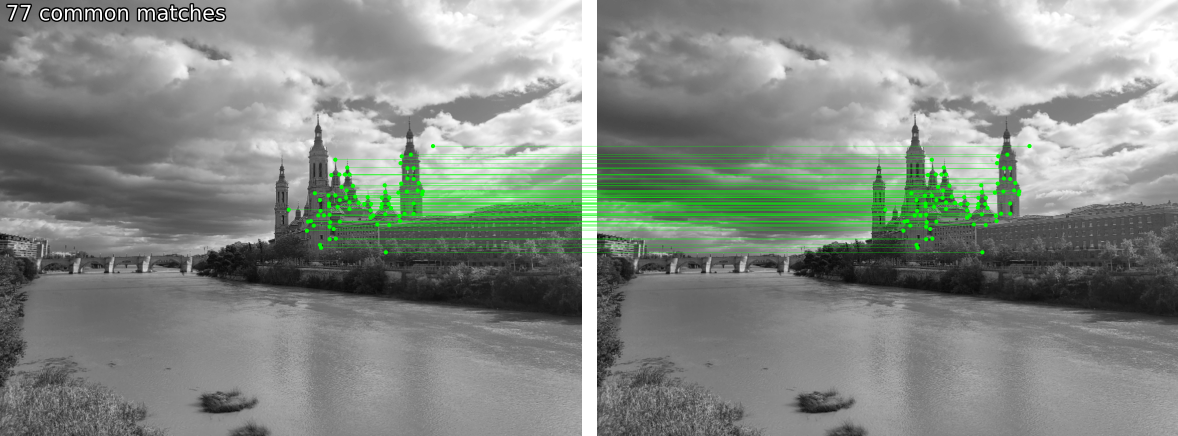
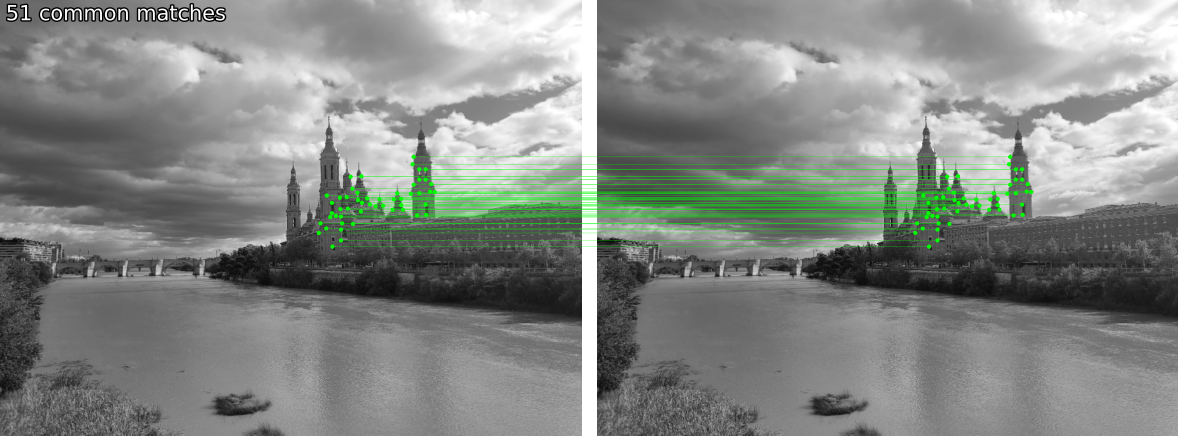
everything works omg

diff --git a/detective/pipeline/matching/matching_stage.py b/detective/pipeline/matching/matching_stage.py
@@ -57,7 +57,7 @@ class MatchingStage(Stage):
         self.matcher = LightGlue(features=fst).eval().cuda()  # load the matcher
 
     def __repr__(self):
-        return f"MatchingStage : (Photos, Target) -> (Photos, Target, points)"
+        return f"MatchingStage : (Photos, Target) -> (images, target, image points, target points) "
 
     def __match(self, input_images : _ImageList, target_image : np.array, context : Pipeline) -> _KeypointMatch:
         """Match images and return list of matches.
@@ -75,12 +75,11 @@ class MatchingStage(Stage):
 
         tensor_imgs = [ numpy_image_to_torch(img).cuda() for img in input_images ]
         target_tensor = numpy_image_to_torch(target_image).cuda()
-        sel = []
+        sel = [ 0 ]
 
         #Get keypoints of target image
         feats_target = self.extractor.extract(target_tensor)
 
-        common_ids : list = None
         match_list = []
         feats_list = []
         
@@ -92,13 +91,13 @@ class MatchingStage(Stage):
             # match the features
         matches01 = self.matcher({'image0': feats_image_0, 'image1': feats_target})
         _, _, matches01 = [rbd(x) for x in [feats_image_0, feats_target, matches01]]  # remove batch dimension
-        matches = matches01['matches']  # indices with shape (K,2)
+        matches_old = matches01['matches'].cpu().numpy()  # indices with shape (K,2)
 
-        n_matches = matches.shape[0]
+        n_matches = matches_old.shape[0]
         Logger.info(f"Found {n_matches} matches.")
 
         # start with matches of the first new image with the target
-        common_ids = matches[:, 0].cpu().numpy()
+        common_ids = matches_old[:, 0]
     
         for i in range(1, len(tensor_imgs)):
 
@@ -116,7 +115,10 @@ class MatchingStage(Stage):
 
             if n_matches >= self.match_thresh:
 
-                tmp_common_ids = list(filter(lambda x : x in common_ids, matches[:, 0].cpu().numpy()))
+                if common_ids is None:
+                    tmp_common_ids = matches[:, 0].cpu().numpy()
+                else:
+                    tmp_common_ids = list(filter(lambda x : x in common_ids, matches[:, 0].cpu().numpy()))
                 
                 if len(tmp_common_ids) >= self.common_thresh:
                     sel.append(i)
@@ -135,15 +137,21 @@ class MatchingStage(Stage):
         for i in range(len(match_list)):
             match_list[i] = np.array(list(filter(lambda x: x[0] in common_ids_set, match_list[i])))
 
-        tensor_imgs_sel = [ tensor_imgs[i] for i in sel ]
-        # translate matches into keypoint pairs
-        kp_target = feats_target['keypoints'].cpu().numpy().squeeze()
-        all_keypoints = [  ]
+        old_match_array = np.array(list(filter(lambda x: x[0] in common_ids_set, matches_old)))
 
+        tensor_imgs_sel = [ tensor_imgs[i] for i in sel ]
+
+        # translate matches into keypoint pairs
+        kp_image_0 = feats_image_0['keypoints'].cpu().numpy().squeeze()
+        kp_image_0 = kp_image_0[common_ids]
+        all_keypoints = [ kp_image_0 ]
         for i, mp in enumerate(match_list):
             kp_i = feats_list[i]['keypoints'].cpu().numpy().squeeze()
             points1 = kp_i[mp[..., 1]]
             all_keypoints.append(points1)
+
+        kp_target = feats_target['keypoints'].cpu().numpy().squeeze()
+        kp_target = kp_target[old_match_array[..., 1]]
 
         # set selection for the future
         self.selection = sel

diff --git a/detective/pipeline/sfm/triangulation.py b/detective/pipeline/sfm/triangulation.py
@@ -1,7 +1,10 @@
+from detective.logger import Logger
 from detective.utils.plot import *
 from detective.utils.spatial import *
 import scipy as sc
 import scipy.optimize as scOptim
+
+import cv2
 
 from itertools import chain
 
@@ -160,9 +163,6 @@ def BA_optimize(points3d, poses, keypoints, K_c):
 
     vec3d = points3d[:3].flatten()
 
-    print(vec3d.shape)
-    for k in keypoints:
-        print(k.shape)
     pose_tup = [ pose_from_T(np.linalg.inv(pose)) for pose in poses ]
     pose_list = []
     for R, t in pose_tup:
@@ -171,11 +171,11 @@ def BA_optimize(points3d, poses, keypoints, K_c):
 
     # first solution [X3D1, X3D2, ..., X3DnPoints,tx, ty, tz, theta_x, theta_y, theta_z]
     Op = np.concatenate([ vec3d ] + pose_list).astype(float)
-    print()
+
     npoints = points3d.shape[1]
     ncams = len(poses)
 
-    print(f"Multiview BA ({ncams} views) for {npoints} points")
+    Logger.info(f"Multiview BA ({ncams} views) for {npoints} points")
 
     # Optimization with L2 norm and Levenberg-Marquardt
     OpOptim = scOptim.least_squares(
@@ -198,8 +198,42 @@ def BA_optimize(points3d, poses, keypoints, K_c):
 
     ax_ba = plot_3dpoints(
         refs=transf, 
-        points=[points3d, p3d_ba.T],
+        points=[points3d.T, p3d_ba.T],
         ref_labels=[ f"C{i}" for i in range(len(poses))],
-        point_labels=["Ground truth", "Initial triangulation", "BA optimized"])
+        point_labels=["Initial triangulation", "BA optimized"])
     
-    return transf, points3d
+    plt.show()
+    
+    return transf, p3d_ba.T
+
+def DLT_eq(point3d, point2d):
+
+    X, Y, Z, W = point3d
+    x, y = point2d
+
+    return np.array([
+        [-X, -Y, -Z, -W,  0,  0,  0,  0, x * X, x * Y, x * Z, x * W],
+        [ 0,  0,  0,  0, -X, -Y, -Z, -W, y * X, y * Y, y * Z, y * W]
+    ])
+
+def DLT_pose(points3d, kp_old):
+
+    # create equations
+    DLT_eq_mat = np.concatenate(
+        [ DLT_eq(points3d[i], kp_old[i]) for i in range(points3d.shape[0]) ], 
+        axis = 0)
+    
+    U, S, V = np.linalg.svd(DLT_eq_mat)
+    P = V[-1].reshape(3, 4)
+
+    # decompose matrix
+    M = P[:, :3]
+    P_signed = P * np.sign(np.linalg.det(M))
+
+    out = cv2.decomposeProjectionMatrix(P_signed)
+    K, R, t = out[0], out[1], out[2]
+
+    R = np.linalg.inv(R)
+    t = np.linalg.inv(P[:3, :3]) @ P[:3, 3]
+    t = t.ravel() / t[-1]
+    return K, create_T(R, t[:3]), P

diff --git a/main_diff.py b/main_diff.py
@@ -128,7 +128,7 @@ def matching_callback(image_tensors, target_tensor, image_keypoints, target_keyp
         mkp0, mkp1 = image_keypoints[0], image_keypoints[i-1]
         viz2d.plot_matches(mkp0, mkp1, color="lime", lw=0.2)
         viz2d.add_text(0, f"{mkp0.shape[0]} common matches")
-        viz2d.save_plot(f"match0-{i}.png")
+        #viz2d.save_plot(f"match0-{i}.png")
         plt.show()
 
     axes = viz2d.plot_images([image_tensors[0], target_tensor])
@@ -136,40 +136,7 @@ def matching_callback(image_tensors, target_tensor, image_keypoints, target_keyp
     mkp0, mkp1 = image_keypoints[0], target_keypoints
     viz2d.plot_matches(mkp0, mkp1, color="lime", lw=0.2)
     viz2d.add_text(0, f"{mkp0.shape[0]} common matches")
-    viz2d.save_plot(f"match0-target.png")
-    plt.show()
-
-def sfm_callback(imgs, target, keypoints, points3d, poses, old_pose):
-    ax_ini = plot_3dpoints(
-        refs=poses + [ old_pose ],
-        points=[points3d],
-        ref_labels=[ f"C{i}" for i in range(len(poses))] + [ "old" ],
-        point_labels=["3d sparse reconstruction"])
-    
-    ax_ini.set_title("Initial estimation")
-    plt.show()
-
-    K_c = np.loadtxt("K_c.txt")
-    for i, p in enumerate(poses):
-        # pose i corresponds to camera i+1's pose with respect to camera 1
-
-        # find projection matrix of a camera
-        P = create_P(K_c, p)
-        xi_proj = P @ points3d.T
-        xi_proj /= xi_proj[2]
-        
-        fig, ax = plt.subplots()
-        plot_image_residual(ax, imgs[i], keypoints[i].T, xi_proj[:2])
-        ax.set_title(f"residuals {i}")
-    
-    # find projection matrix of a camera
-    P = create_P(K_c, p)
-    xi_proj = P @ points3d.T
-    xi_proj /= xi_proj[2]
-    
-    fig, ax = plt.subplots()
-    plot_image_residual(ax, imgs[i], keypoints[i].T, xi_proj[:2])
-    ax.set_title(f"residuals {i}")
+    #viz2d.save_plot(f"match0-{i}.png")
     plt.show()
 
 def main(args):
@@ -183,14 +150,11 @@ def main(args):
     dp = Pipeline([
         CalibrationStage(),
         MatchingStage(
-            callback=matching_callback, 
+            #callback=matching_callback, 
             match_thresh=match_thresh,
             common_thresh=common_thresh, 
             extractor_type=extractor),
-        SFMStage(
-            full_ba=True,
-            callback=sfm_callback
-        ),
+        DiffStage()
     ])
 
     print(dp)

diff --git a/detective/pipeline/diff/diff_stage.py b/detective/pipeline/diff/diff_stage.py
@@ -2,6 +2,8 @@ from typing import Tuple, List, TypeAlias
 import numpy as np
 import cv2
 
+import matplotlib.pyplot as plt
+
 from detective.pipeline import Pipeline, Stage
 
 _ImageList : TypeAlias = List[np.array]
@@ -9,14 +11,45 @@ _SFMInput : TypeAlias = Tuple[np.array, np.array]
 _SFMOutput : TypeAlias = Tuple[np.array, np.array, np.array]
 
 class DiffStage(Stage):
-    
-    def __init__(self, full_ba : bool = True):
-        self.full_ba = full_ba
 
     def __repr__(self):
-        return f"DiffStage : (3d, pose) -> (3d, pose, diffs)"
+        return f"DiffStage : (images, target, image points, target points) -> (diffs)"
 
     def run(self, input: _SFMInput, context : Pipeline) -> _SFMOutput:
-        points3d, pose = input
+        images, target_image, keypoints, target_keypoints = input
 
-        return points3d, pose, np.zeros((10, 10))
+        target_image = cv2.bilateralFilter(target_image,9,75,75)
+
+        for i in range(len(images)):
+            new_img = cv2.bilateralFilter(images[i],9,75,75)
+
+            src_pts = np.float32(keypoints[i]).reshape(-1,1,2)
+            dst_pts = np.float32(target_keypoints).reshape(-1,1,2)
+
+            M, mask = cv2.findHomography(src_pts, dst_pts, cv2.RANSAC,5.0)
+
+            h,w = target_image.shape[:2]
+
+            im_dst = cv2.warpPerspective(new_img, M, (w, h))
+
+            ret, thresh_old = cv2.threshold(target_image,0,255,cv2.THRESH_OTSU)
+            ret, thresh_new = cv2.threshold(im_dst,0,255,cv2.THRESH_OTSU)
+
+            thresh_new = thresh_new.astype(np.int8)
+            thresh_old = thresh_old.astype(np.int8)
+
+            diff = (thresh_new - thresh_old)
+            seg_labels = np.where(diff < 0, 2, diff)
+
+            colours = np.array([[0, 0, 0], [0, 255, 0], [255, 0, 0]])
+            
+            fig, ax = plt.subplots(1, 3)
+            ax[0].set_title("warped original otsu binarization")
+            ax[0].imshow(thresh_old,cmap='hot')
+            ax[1].set_title("target otsu binarization")
+            ax[1].imshow(thresh_new,cmap='hot')
+            ax[2].set_title("difference")
+            ax[2].imshow(colours[seg_labels],cmap='hot')
+
+        plt.show()
+        return np.zeros((10, 10))

diff --git a/detective/pipeline/sfm/sfm_stage.py b/detective/pipeline/sfm/sfm_stage.py
@@ -21,7 +21,7 @@ class SFMStage(Stage):
         self.full_ba = full_ba
 
     def __repr__(self):
-        return f"SFMStage : (Photos, Target, points) -> (3d, pose)"
+        return f"SFMStage : (images, target, image points, target points) -> (3d, pose)"
     
     def __pose_with_calib(self, keypoints : np.array, context : Pipeline):
         """Computes for each camera from 2 to n the relative pose with respect to camera 1.
@@ -46,19 +46,14 @@ class SFMStage(Stage):
             if points3d is None:
                 points3d = points3d_i
 
-            ax_ba = plot_3dpoints(
-                refs=[],
-                points=[points3d_i],
-                ref_labels=[],
-                point_labels=["Initial triangulation"])
-            
-            ax_ba.set_title("Points and poses after refinement")
-            plt.show()
-
             poses.append(pose)
 
-        # refinement via BA
-        return BA_optimize(points3d.T, poses, keypoints, context.input_calib)
+        if self.full_ba:
+            # refinement via BA
+            return BA_optimize(points3d.T, poses, keypoints, context.input_calib)
+        
+        else:
+            return poses, points3d
 
 
     def run(self, input: _SFMInput, context : Pipeline) -> _SFMOutput:
@@ -71,9 +66,20 @@ class SFMStage(Stage):
         # triangulate points from new photos
         poses, points3d = self.__pose_with_calib(img_keypoints, context)
 
+        # pose for old camera
+        K_old, T_old, P = DLT_pose(points3d, target_keypoints)
+
+        # find projection matrix of a camera
+        xi_proj = P @ points3d.T
+        xi_proj /= xi_proj[2]
+        
+        fig, ax = plt.subplots()
+        plot_image_residual(ax, context.target, target_keypoints.T, xi_proj[:2])
+        ax.set_title(f"residuals old camera")
+
         # poses serve as parameters for BA refinement
         if super().has_callback():
-            super().get_callback()(imgs, target, img_keypoints, points3d, poses)
+            super().get_callback()(imgs, target, img_keypoints, points3d, poses, T_old)
 
         # points and old pose
-        return points3d, None
+        return points3d, T_old, img_keypoints, target_keypoints

diff --git a/detective/utils/plot.py b/detective/utils/plot.py
@@ -80,7 +80,7 @@ def drawRefSystem(ax, T_w_c, strStyle, nameStr):
     draw3DLine(ax, T_w_c[0:3, 3:4], T_w_c[0:3, 3:4] + T_w_c[0:3, 0:1], strStyle, 'r', 1)
     draw3DLine(ax, T_w_c[0:3, 3:4], T_w_c[0:3, 3:4] + T_w_c[0:3, 1:2], strStyle, 'g', 1)
     draw3DLine(ax, T_w_c[0:3, 3:4], T_w_c[0:3, 3:4] + T_w_c[0:3, 2:3], strStyle, 'b', 1)
-    ax.text(np.squeeze( T_w_c[0, 3]+0.1), np.squeeze( T_w_c[1, 3]+0.1), np.squeeze( T_w_c[2, 3]+0.1), nameStr)
+    ax.text(np.squeeze( T_w_c[0, 3]+np.random.uniform(-0.2, 0.2)), np.squeeze( T_w_c[1, 3]+np.random.uniform(-0.2, 0.2)), np.squeeze( T_w_c[2, 3]+np.random.uniform(-0.2, 0.2)), nameStr)
 
 
 

diff --git a/detective/pipeline/calib/calib_stage.py b/detective/pipeline/calib/calib_stage.py
@@ -97,8 +97,8 @@ class CalibrationStage(Stage):
 
         cal_input_images = self.__calibrate(cal_images, input_images, context)
 
-        self.images = cal_input_images
-        self.target = target_image
+        context.images = [ image.copy() for image in cal_input_images ]
+        context.target = target_image.copy()
 
         if super().has_callback():
             super().get_callback()(cal_input_images)

diff --git a/detective/utils/spatial.py b/detective/utils/spatial.py
@@ -50,9 +50,6 @@ def create_F_from_matches(matches1 : np.array, matches2 : np.array):
     U, S, V = np.linalg.svd(F)
     return U @ np.diag(np.array([S[0], S[1], 0])) @ V
 
-def DLT_projection(matches1, matches2):
-    pass
-
 def create_tri_eq(P, point2d):
     mat00 = P[2][0] * point2d[0] - P[0][0]
     mat01 = P[2][1] * point2d[0] - P[0][1]

diff --git a/detective/pipeline/pipeline.py b/detective/pipeline/pipeline.py
@@ -59,7 +59,7 @@ class Pipeline:
         # load images
         cal_images = read_images(cal_path)
         photo_images = read_images(photo_path)
-        target_image = read_image(target_path)
+        target_image = cv2.cvtColor(read_image(target_path),cv2.COLOR_BGR2GRAY)
 
         current = (cal_images, photo_images, target_image)
 
